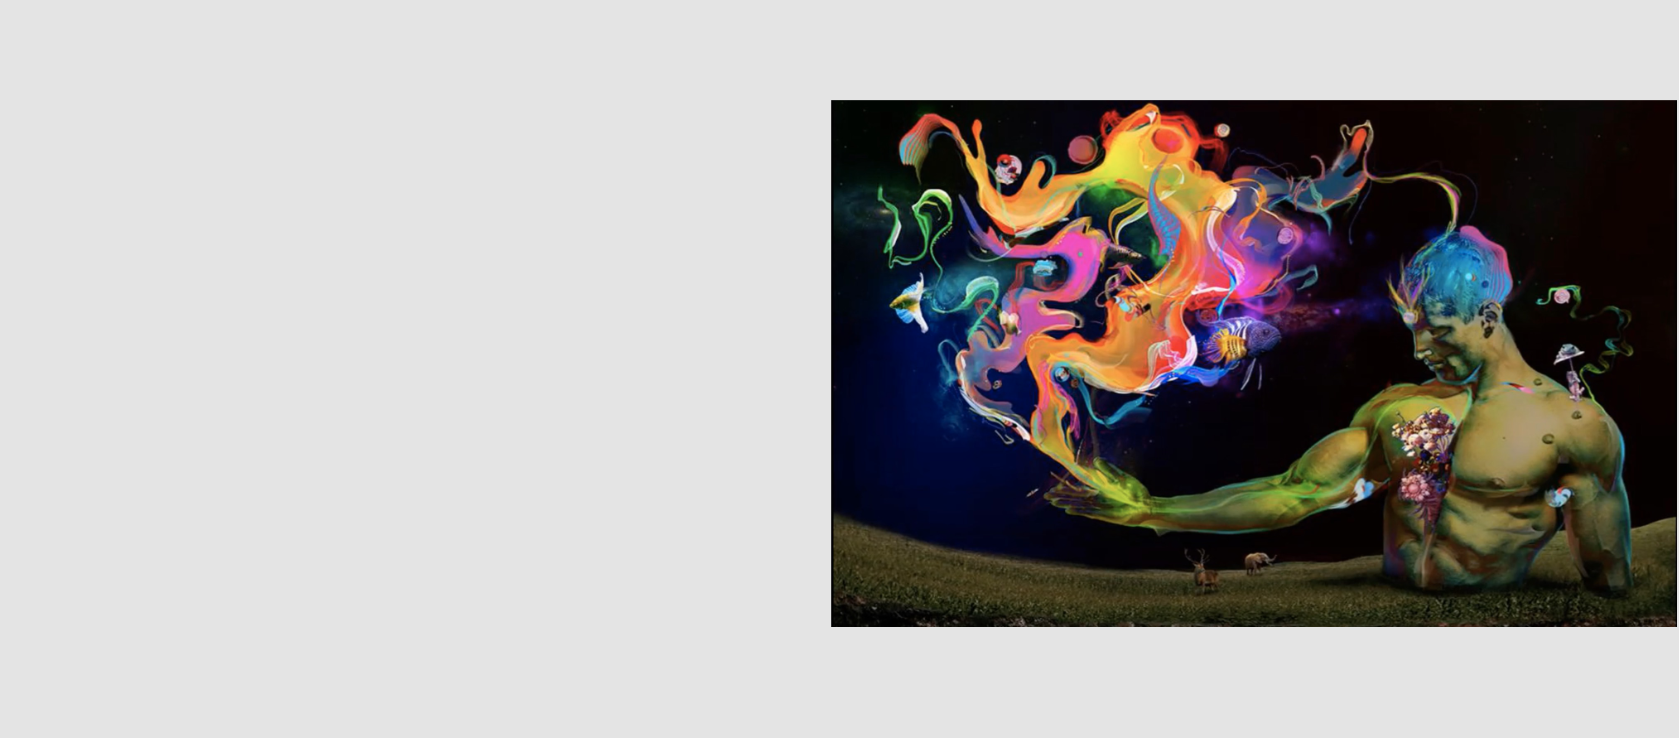
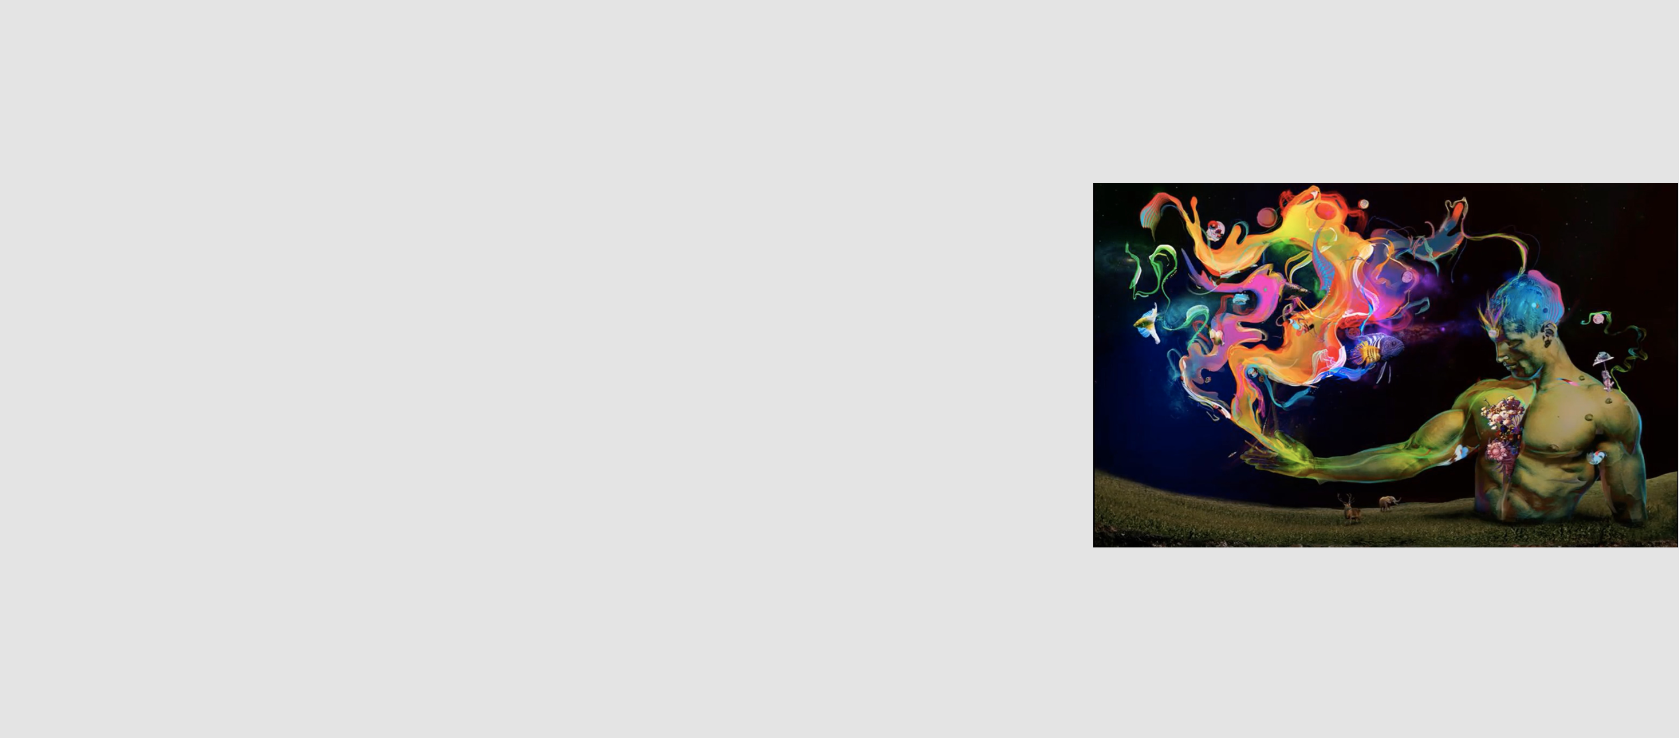
Espoir Metabolique medecine-naturelle

diff --git a/Blog-widgets/EspoirMetabolique/Medecine-Naturelle-EspoirMetaboliques.html b/Blog-widgets/EspoirMetabolique/Medecine-Naturelle-EspoirMetaboliques.html
@@ -10,7 +10,9 @@
 article {
     display: flex; 
     align-items: center;
+    align-content: center;
     width: 100%; 
+    height: 100%;
 }
 article  .divImg {
     //max-width: 323px; 
